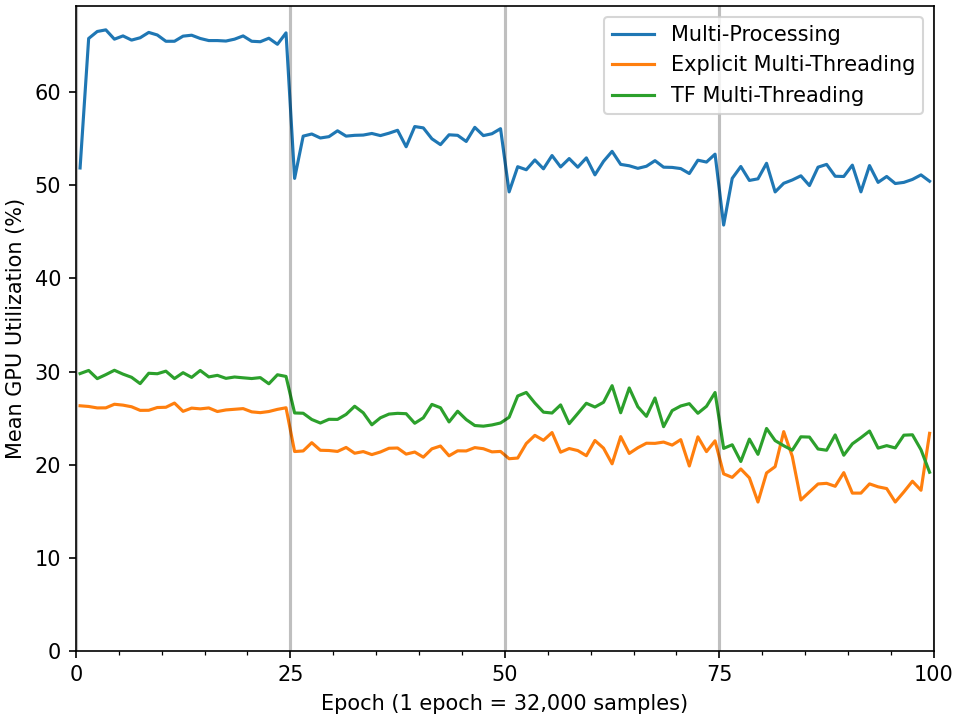
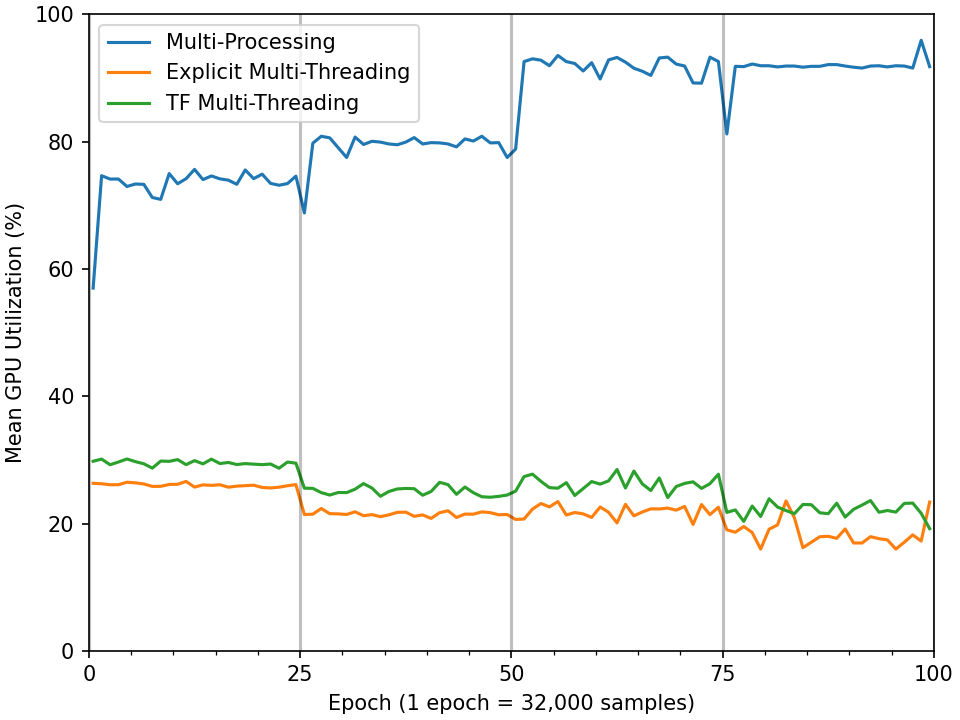
Remove unnecessary tf.one_hot() call from pipeline.
That one call was causing a severe bottleneck by forcing all training
data to be sent back and forth between the CPU and GPU. This change
removes it, improving performance by another ~30%.

diff --git a/pipeline.py b/pipeline.py
@@ -5,22 +5,8 @@ import queue  # for queue.Full and queue.Empty exceptions used by mp.Queue
 
 import tensorflow as tf
 
-from rendering import gen_training_sample, RawSample
-from globals import IMG_SIZE, CATEGORIES_ANGLE
-
-TFSample = namedtuple("TFSample", ["image", "kanji_index", "font_size", "angle"])
-
-
-def convert_sample(raw: RawSample) -> TFSample:
-    # This function is necessary because TF objects should only be created in the main process
-    # Trying to create TF objects in other processes appears to create multiple copies of TF which
-    # then compete for resources such as GPU memory
-    return TFSample(
-        raw.image,
-        raw.kanji_index,
-        raw.font_size,
-        tf.one_hot(int(CATEGORIES_ANGLE * raw.angle/360), CATEGORIES_ANGLE)
-    )
+from rendering import gen_training_sample
+from globals import IMG_SIZE
 
 
 def get_dataset_from_generator(gen):
@@ -28,7 +14,7 @@ def get_dataset_from_generator(gen):
         tf.TensorSpec(shape=(IMG_SIZE, IMG_SIZE), dtype=tf.float32),
         tf.TensorSpec(shape=(), dtype=tf.int16),
         tf.TensorSpec(shape=(), dtype=tf.int16),
-        tf.TensorSpec(shape=(CATEGORIES_ANGLE,), dtype=tf.int16),
+        tf.TensorSpec(shape=(), dtype=tf.int16),
     ))
 
 
@@ -45,11 +31,8 @@ class GenThread(threading.Thread):
     def run(self):
         print(f"{self.__class__.__name__} has started.")
         while not self.halt:
-            batch = []
-            for _ in range(self.batch_size):
-                with self.lock:
-                    raw = gen_training_sample(self.__kanji, self.__fonts)
-                    batch.append(convert_sample(raw))
+            with self.lock:
+                batch = [gen_training_sample(self.__kanji, self.__fonts) for _ in range(self.batch_size)]
             self.queue.put(batch)
         print(f"{self.__class__.__name__} has stopped.")
 
@@ -122,8 +105,7 @@ class Provider:
 
     def __generator(self):
         while True:
-            raw = gen_training_sample(self.__kanji, self.__fonts)
-            yield convert_sample(raw)
+            yield gen_training_sample(self.__kanji, self.__fonts)
 
     def get_dataset(self) -> tf.data.Dataset:
         return get_dataset_from_generator(self.__generator)
@@ -144,11 +126,15 @@ class ProviderMultithread(Provider):
     def stop_background_tasks(self):
         for thread in self.threads:
             thread.halt = True
-        self.__empty_queue()
+        self.__flush_queue()  # This just makes sure that the processes aren't stuck waiting for space in the queue.
         for thread in self.threads:
             thread.join()
 
-    def __empty_queue(self):
+    def __flush_queue(self):
+        """
+        Remove every item which is in the queue when this function is called.
+        Items which are added to the queue while this function is running may or may not be removed.
+        """
         for ii in range(self.queue_size):
             try:
                 self.queue.get(block=False)
@@ -164,7 +150,7 @@ class ProviderMultithread(Provider):
         self.__kanji = values
         for thread in self.threads:
             thread.kanji = values
-        self.__empty_queue()
+        self.__flush_queue()
 
     def __generator(self):
         while True:
@@ -220,8 +206,8 @@ class ProviderMultiprocess(Provider):
     def __generator(self):
         while True:
             batch = self.queue.get(timeout=5)
-            for raw_sample in batch:
-                yield convert_sample(raw_sample)
+            for sample in batch:
+                yield sample
 
     def get_dataset(self) -> tf.data.Dataset:
         return get_dataset_from_generator(self.__generator)
@@ -233,4 +219,4 @@ class ProviderMultiprocess(Provider):
         # More seriously, I would guess that it's a difference in how the "self.__generator" call is performed
         # Maybe the code path to call a method which has been overridden in a child class is much more complicated
         # than the code path when calling a method which is defined in the same class.
-        # It might be similar to the concept of virtual methods in low-level languages.
+        # It might be similar to the concept of virtual methods in low-level languages.'''

diff --git a/rendering.py b/rendering.py
@@ -3,16 +3,26 @@ from random import choice, randint, random
 import numpy as np
 from collections import namedtuple
 
-from globals import IMG_SIZE
+from globals import IMG_SIZE, CATEGORIES_ANGLE
 
 
+# A RawSample stores the angle as a float in degrees
 RawSample = namedtuple("RawSample", ["image", "kanji_index", "font_size", "angle"])
+# A TrainingSample is like a RawSample but the angle has been quantized to an integer between 0 and CATEGORIES_ANGLE
+TrainingSample = namedtuple("TrainingSample", ["image", "kanji_index", "font_size", "angle"])
 
 
 WHITE = (255, 255, 255)
 
 
 def render_kanji(kanji, fontpath, fsize, angle):
+    """
+    :param kanji: the unicode character to render, as a string
+    :param fontpath: path to the TrueType or OpenType font to use
+    :param fsize: the font size
+    :param angle: the rotation angle in degrees
+    :return: a PIL Image of the kanji
+    """
     color_text = (0, 0, 0, randint(128, 255))
     color_bg = (255, 255, 255, randint(128, 255))
     bgsize = randint(fsize, IMG_SIZE)
@@ -65,7 +75,7 @@ def render_image(kanji, font, fsize, angle):
     return img
 
 
-def gen_training_sample(all_kanji, all_fonts):
+def gen_raw_sample(all_kanji, all_fonts):
     i_kanji = randint(0, len(all_kanji)-1)
     kanji = all_kanji[i_kanji]
     font = choice(all_fonts)
@@ -74,3 +84,13 @@ def gen_training_sample(all_kanji, all_fonts):
     angle_noise = random()*10 - 5
     img = render_image(kanji, font, fsize, angle + angle_noise)
     return RawSample(np.array(img.convert("L"))/255, i_kanji, fsize, angle)
+
+
+def gen_training_sample(all_kanji, all_fonts):
+    raw = gen_raw_sample(all_kanji, all_fonts)
+    return TrainingSample(
+        raw.image,
+        raw.kanji_index,
+        raw.font_size,
+        int(CATEGORIES_ANGLE * raw.angle/360)
+    )

diff --git a/main.py b/main.py
@@ -1,5 +1,4 @@
 import json
-import time
 from pathlib import Path
 import argparse
 
@@ -15,6 +14,9 @@ from training import train_curriculum, train_simple
 # This is so that Japanese kanji can be used in titles and labels on matplotlib graphs
 font_manager.fontManager.addfont("fonts/NotoSansJP-Regular.otf")
 plt.rc('font', family='Noto Sans JP')
+
+# Uncomment this to see which device each TF operation is assigned to
+# tf.debugging.set_log_device_placement(True)
 
 """
 By default TensorFlow will try to claim as much GPU memory as it possibly can.

diff --git a/analysis.py b/analysis.py
@@ -96,7 +96,7 @@ def plot_gpu_comparison():
     ax.xaxis.set_minor_locator(ticker.MultipleLocator(5))
     ax.xaxis.set_major_locator(ticker.MultipleLocator(25))
     ax.set_xlim(0, 100)
-    ax.set_ylim(0, None)
+    ax.set_ylim(0, 100)
     fig.savefig("plots/gpu_util_comparison.png", dpi=150)
     plt.show()
 
